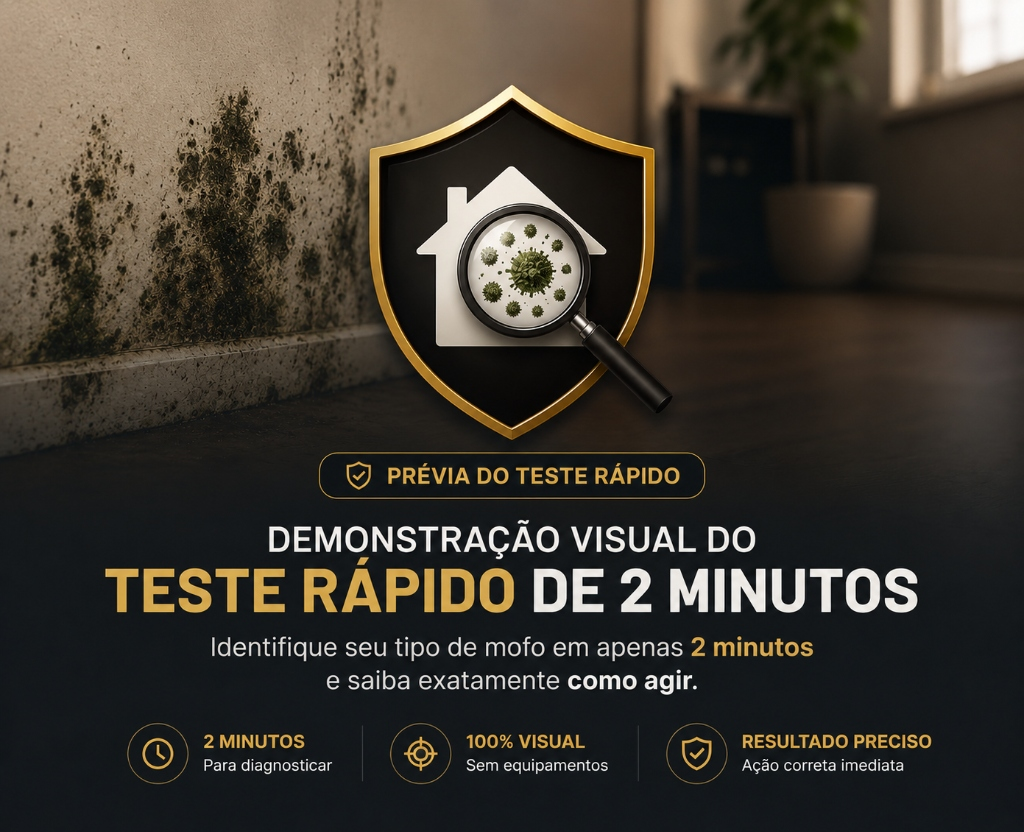
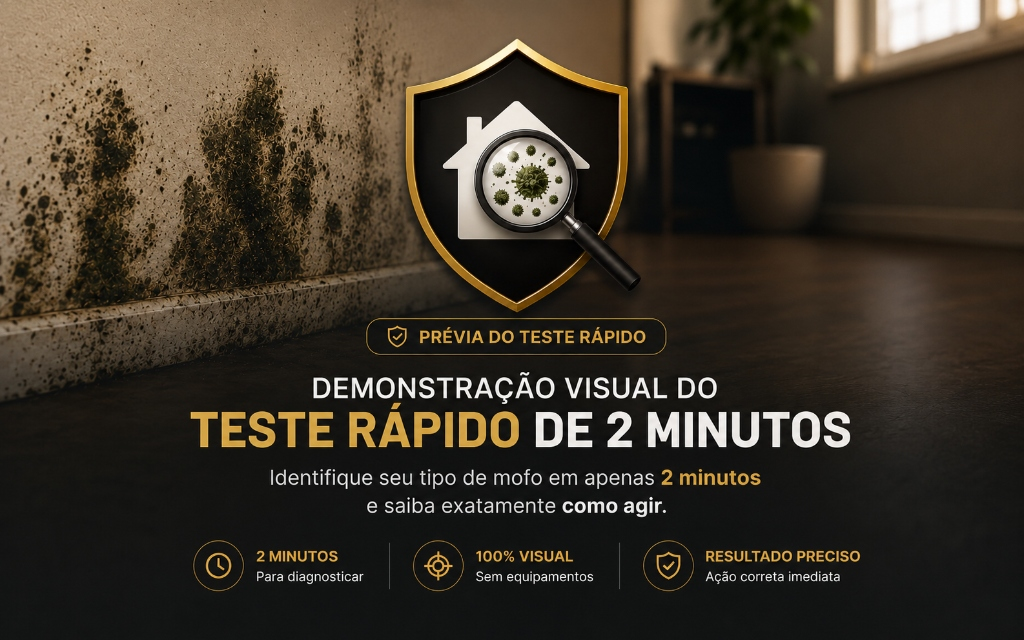
feat(previews): integrate updated Teste Rápido preview image and adjust CSS to tightly wrap images

diff --git a/index.html b/index.html
@@ -524,19 +524,17 @@
       display: grid;
       grid-template-columns: repeat(2, minmax(0, 1fr));
       gap: 24px;
+      align-items: start;
     }
 
     .inside-preview-image {
       width: 100%;
-      height: 100%;
       overflow: hidden;
       border: 1px solid rgba(255, 255, 255, .14);
       border-radius: 8px;
-      background: #0a0b0d;
+      background: transparent;
       box-shadow: 0 20px 46px rgba(0, 0, 0, .3);
       transition: transform .24s ease, border-color .24s ease, box-shadow .24s ease;
-      display: flex;
-      flex-direction: column;
     }
 
     .inside-preview-image:hover {
@@ -548,10 +546,8 @@
     .inside-preview-image img {
       display: block;
       width: 100%;
-      height: 100%;
-      object-fit: contain;
+      height: auto;
       border-radius: 8px;
-      flex-grow: 1;
     }
 
     .line {